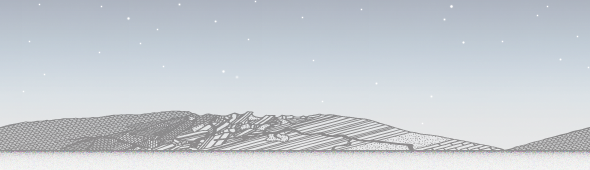
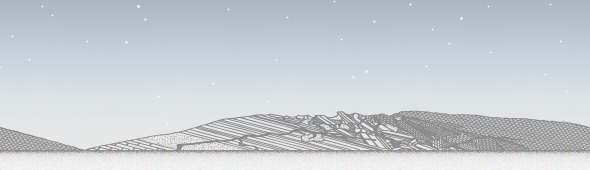
replace repeating background with mirrored version
the direction of the lines looked wrong to the eye educated in those drawings

Changed region(s): [[0.0, 0.6471, 1.0, 0.9118]]

diff --git a/fileadmin/geoleo/geoleo.css b/fileadmin/geoleo/geoleo.css
@@ -44,7 +44,7 @@ body:before {
 }
 
 #page {
-	background: url(header_repeat.png) repeat-x 64% 0%;
+	background: url(header_repeat.png) repeat-x -16% 0%;
 	min-height: 100%;
 }
 
